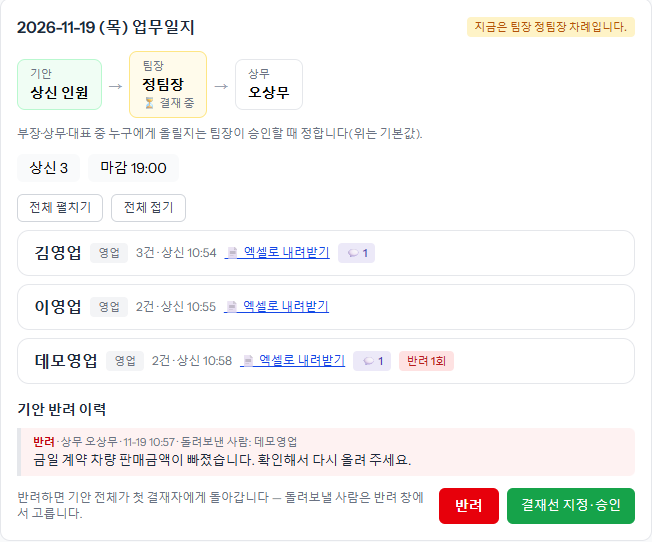
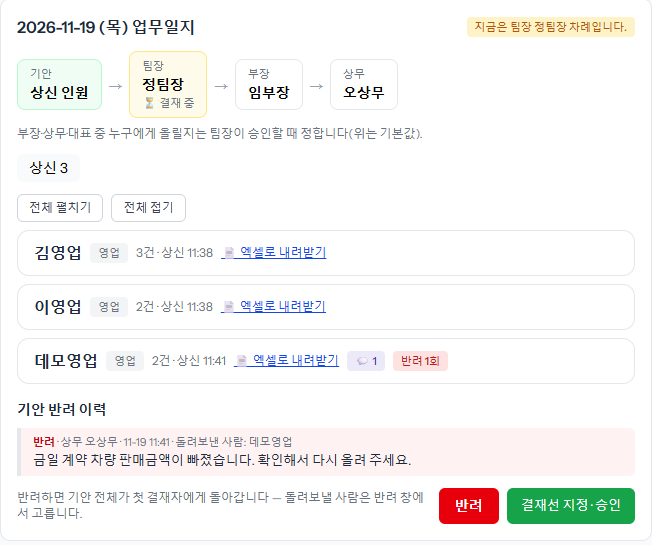
docs(guides): 업무일지 — 「마감 19:00」 없는 새 그림(4·6·14), 반려 탭(15)·내 반려 이력(13) 그림과 설명

diff --git a/resources/guides/work-journal/index.html b/resources/guides/work-journal/index.html
@@ -1,6 +1,6 @@
 <!-- 업무일지 — 로컬 가이드 계정(김영업·이영업·데모영업)으로 오늘 일지를 쓰고 상신해, 로컬 결재 직급 계정(정팀장·임부장·오상무·홍대표)으로 결재·반려·재상신까지 찍었다
      (2026-11-14 첫판 · 11-16 엑셀 양식 칸·결재선 지정 창 · 11-19 상신 의견·결재의견·기안 반려·결재 이력). 내용은 예시.
-     2·3·5·6·7·9·10번 그림은 앞선 날짜 화면(그 부분은 바뀌지 않았다). -->
+     2·3·5·7·9·10번 그림은 앞선 날짜 화면(그 부분은 바뀌지 않았다). 11-19 오후 — 탭 이름(결재대기·결재중·결재완료·반려)·반려 탭·내 반려 이력·상신 마감 시각 폐지 반영. -->
 
 <p style="margin:0 0 14px;color:#4b5563;line-height:1.65">
     그날 한 일을 적어 <strong>상신</strong>하면 팀장이 먼저 결재하고, 팀장이 <strong>부장·상무·대표 중 누구에게 올릴지</strong> 정해 넘깁니다. 왼쪽 메뉴 「업무일지」에서 씁니다.
@@ -61,7 +61,7 @@
     <h3>팀장: [결재선 지정 · 승인] → 올릴 사람을 고릅니다</h3>
     <p>[결재선 지정 · 승인]을 누르면 창이 뜹니다. 부장·상무·대표 칸마다 그 사람을 고르거나 「— 건너뜀」을 고릅니다. <strong>지정한 마지막 사람이 최종 결재권자</strong>이고, 창 아래에 결재 순서와 최종 결재권자가 보입니다. 한 명은 꼭 골라야 합니다. [승인 → 부장에게]를 누르면 그 순서로 넘어갑니다. 클레임 [결재 요청]과 같은 창입니다.</p>
     <img src="05.png" alt="결재선 창 — 부장 임부장, 상무 오상무, 대표 건너뜀 · 팀장(나) → 부장 → 상무, 최종 결재권자 = 상무 오상무" width="420">
-    <img src="06.png" alt="팀장 승인 뒤 결재 줄 — 팀장 ✓ → 부장(결재 중) → 상무, 대표 없음" width="652">
+    <img src="06.png" alt="결재중 탭 — 탭 네 개(결재대기·결재중·결재완료·반려), 2026-11-19 기안은 팀장 ✓ → 부장(결재 중) → 상무, 대표 없음">
 </div>
 
 <div class="gd-step">
@@ -90,16 +90,17 @@
     <h3>돌려받은 사람은 사유를 보고 고쳐서 다시 [상신]합니다</h3>
     <p>일지 위에 「상무 오상무 반려」와 사유가 빨갛게 뜹니다. 적은 내용은 그대로 있으니 필요한 곳만 고치고, 「상신 의견」에 무엇을 고쳤는지 적어 [상신]합니다. <strong>같은 기안에 다시 들어가</strong> 나머지 사람들과 모입니다.</p>
     <img src="12.png" alt="데모영업 일지 — 반려됨, 상무 오상무 반려와 사유, 내용은 그대로, 상신 의견 칸과 상신 버튼">
-    <p>재상신한 뒤에도 아래 「결재 이력」에 반려 사유와 상신 의견이 순서대로 남습니다.</p>
-    <img src="13.png" alt="결재 이력 — 상신 의견, 상무 오상무 반려 사유, 다시 상신한 의견">
+    <p>재상신한 뒤에도 아래 「결재 이력」에 반려 사유와 상신 의견이 순서대로 남습니다. 그 아래 <strong>「내 반려 이력」</strong>을 펼치면 지금까지 반려된 것이 날짜별로 모여 있고, 날짜를 누르면 그날 일지로 갑니다.</p>
+    <img src="13.png" alt="결재 이력 — 상신 의견, 상무 오상무 반려 사유, 다시 상신한 의견 · 내 반려 이력(최근 1건) 2026-11-19 상무 오상무">
 </div>
 
 <div class="gd-step">
     <div class="gd-n">11단계</div>
     <h3>팀장부터 다시 결재합니다</h3>
     <p>기안이 다시 팀장 차례가 됩니다. 반려됐던 사람 이름 옆에 「반려 1회」가 붙고, 아래 「기안 반려 이력」에 누가·언제·누구를·왜 돌려보냈는지가 보입니다. 이 이력은 다음 결재자에게도 그대로 보입니다. [결재선 지정 · 승인]을 누르면 지난번 결재선이 미리 골라져 있습니다.</p>
-    <p>결재 화면의 <strong>「반려」 탭</strong>에는 그 달 반려가 전부 모입니다. 팀장 선에서 반려돼 위로 올라가지 않은 것도 부장·상무·대표가 여기서 봅니다. 작성자는 자기 일지 화면 아래 「내 반려 이력」에서 날짜별로 봅니다.</p>
+    <p>결재 화면의 <strong>「반려」 탭</strong>에는 그 달 반려가 날짜별로 모입니다. 왼쪽 목록에 반려 횟수와 <strong>반려된 사람 이름</strong>이 보이고(세 명 이상이면 「김영업 외 2명」), 누르면 오른쪽에 누가·언제·누구를·왜 돌려보냈는지만 나옵니다. 팀장 선에서 반려돼 위로 올라가지 않은 것도 부장·상무·대표가 여기서 봅니다.</p>
     <img src="14.png" alt="다시 팀장 차례 — 데모영업 반려 1회, 기안 반려 이력에 상무 오상무·돌려보낸 사람 데모영업·사유" width="652">
+    <img src="15.png" alt="반려 탭 — 왼쪽 2026-11-19 업무일지 반려 1회 데모영업, 오른쪽 반려 이력: 상무 오상무·돌려보낸 사람 데모영업·사유">
 </div>
 
 <h2 class="gd-sec">④ 결과 보기</h2>
